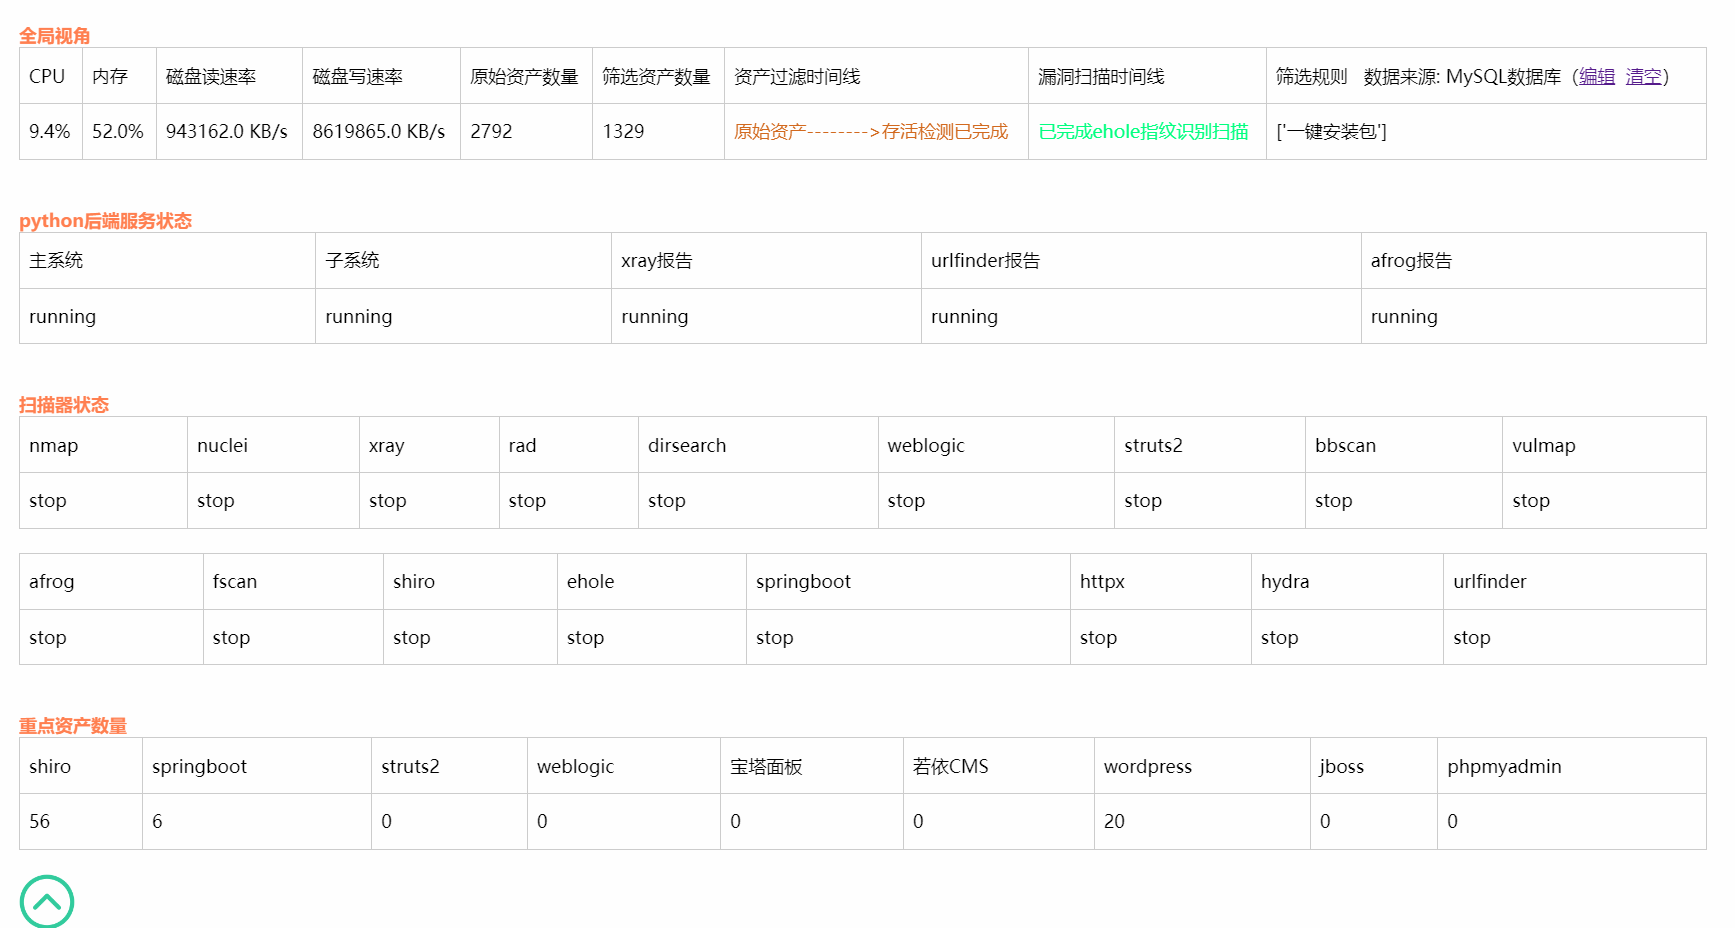
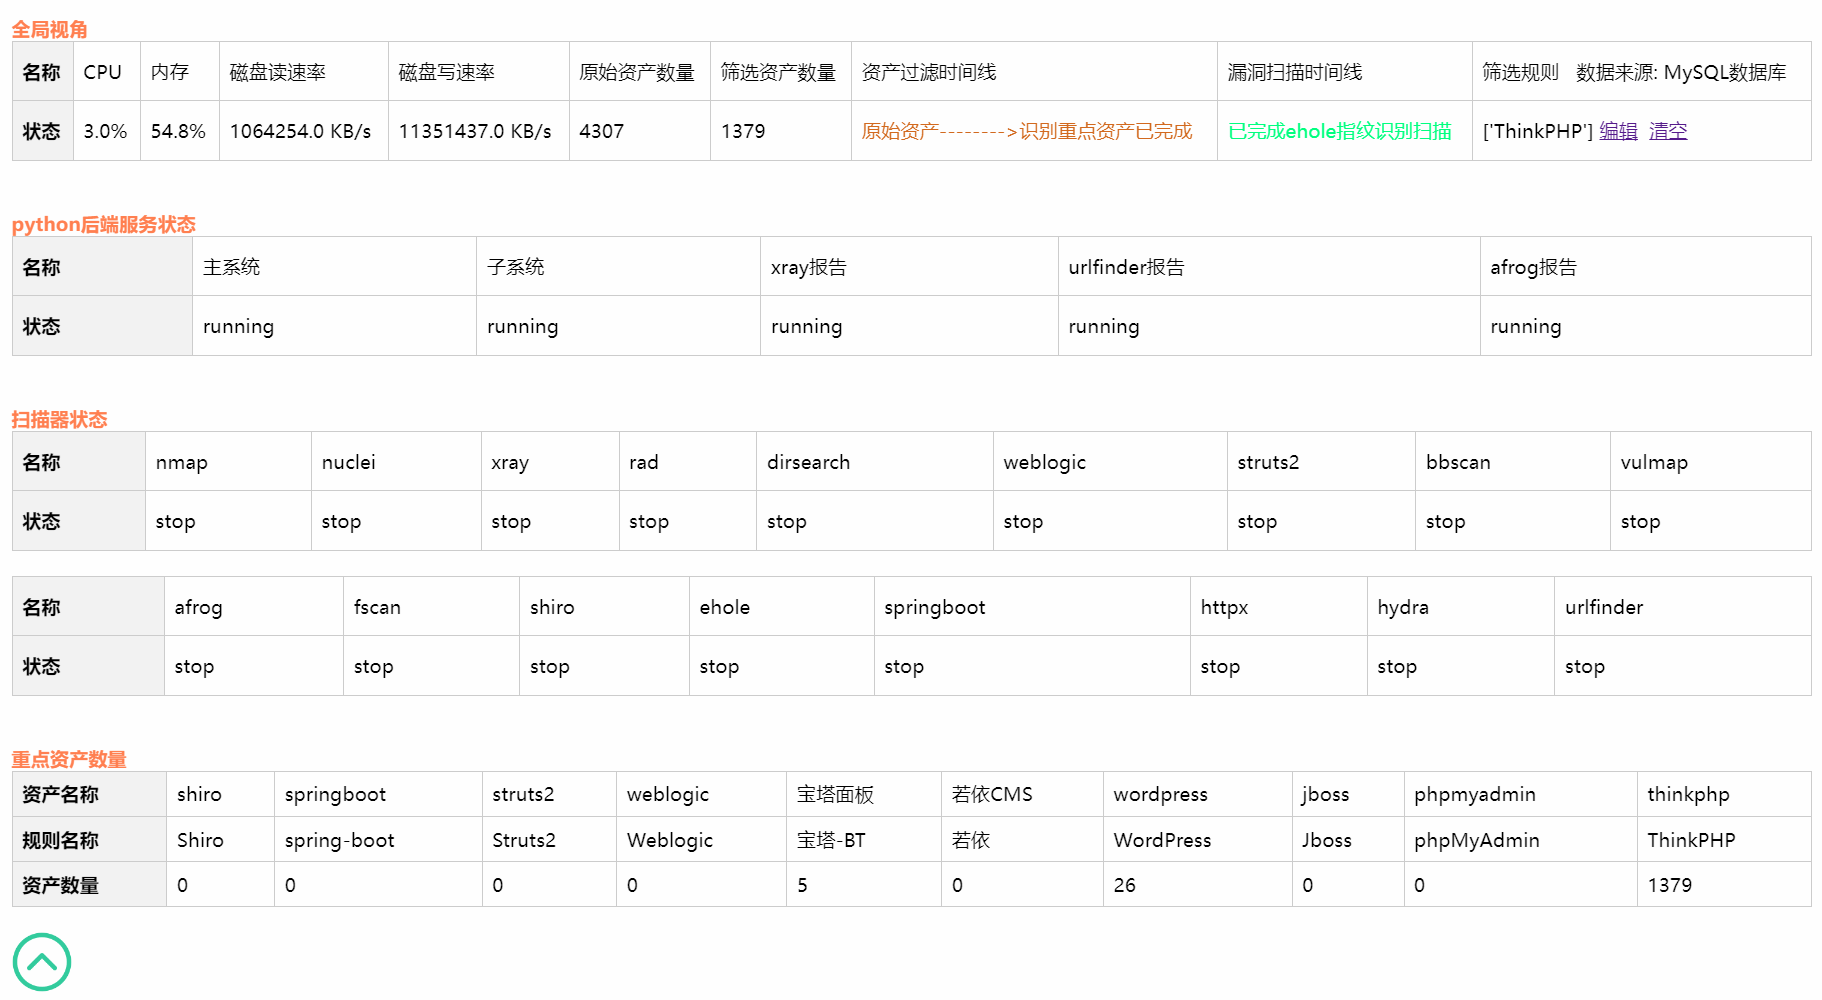
新增重点资产thinkphp资产数量查看、资产查看每5秒刷新一次

diff --git a/templates/index.html b/templates/index.html
@@ -66,6 +66,7 @@
 			<strong style="color:coral">全局视角</strong>
 			<table border="1" style="width: 1500px; height: 100px;">
 				<tr>
+					<th>名称</th>
 					<td>CPU</td>
 					<td>内存</td>
 					<td>磁盘读速率</td>
@@ -77,11 +78,11 @@
 					<td>
 						筛选规则&nbsp;&nbsp;
 
-						<span id="spp31"></span>（<a href="###" onclick="shuaixuanrule()">编辑</a>&nbsp;
-						<a href="###" onclick="delete_rule_all_func()">清空</a>）
+						<span id="spp31"></span>
 					</td>
 				</tr>
 				<tr>
+					<th>状态</th>
 					<td><span id="spp23"></span></td>
 					<td><span id="spp24"></span></td>
 					<td><span id="spp35"></span></td>
@@ -98,6 +99,9 @@
 							<input type="button" value="删除" onclick="delete_rule_func()">
 							<input type="button" value="返回" onclick="fanhuishuaixuanrule()">
 						</p>
+
+						<a href="###" onclick="shuaixuanrule()">编辑</a>&nbsp;
+						<a href="###" onclick="delete_rule_all_func()">清空</a>
 					</td>
 				</tr>
 			</table>
@@ -107,6 +111,7 @@
 			<table border="1" style="width: 1500px; height: 100px;">
 
 				<tr>
+					<th>名称</th>
 					<td>主系统</td>
 					<td>子系统</td>
 					<td>xray报告</td>
@@ -114,6 +119,7 @@
 					<td>afrog报告</td>
 				</tr>
 				<tr>
+					<th>状态</th>
 					<td><span id="spp37"></span></td>
 					<td><span id="spp38"></span></td>
 					<td><span id="spp39"></span></td>
@@ -126,6 +132,7 @@
 			<strong style="color:coral">扫描器状态</strong>
 			<table border="1" style="width: 1500px; height: 100px;">
 				<tr>
+					<th>名称</th>
 					<td>nmap</td>
 					<td>nuclei</td>
 					<td>xray</td>
@@ -138,6 +145,7 @@
 				</tr>
 
 				<tr>
+					<th>状态</th>
 					<td><span id="spp1"></span></td>
 					<td><span id="spp2"></span></td>
 					<td><span id="spp3"></span></td>
@@ -153,6 +161,7 @@
 			<br>
 			<table border="1" style="width: 1500px; height: 100px;">
 				<tr>
+					<th>名称</th>
 					<td>afrog</td>
 					<td>fscan</td>
 					<td>shiro</td>
@@ -163,6 +172,7 @@
 					<td>urlfinder</td>
 				</tr>
 				<tr>
+					<th>状态</th>
 					<td><span id="spp10"></span></td>
 					<td><span id="spp11"></span></td>
 					<td><span id="spp12"></span></td>
@@ -178,6 +188,7 @@
 			<strong style="color:coral">重点资产数量</strong>
 			<table border="1" style="width: 1500px; height: 100px;">
 				<tr>
+					<th>资产名称</th>
 					<td>shiro</td>
 					<td>springboot</td>
 					<td>struts2</td>
@@ -187,8 +198,24 @@
 					<td>wordpress</td>
 					<td>jboss</td>
 					<td>phpmyadmin</td>
+					<td>thinkphp</td>
+				</tr>
+				<!-- 规则名称 -->
+				<tr>
+					<th>规则名称</th>
+					<td>Shiro</td>
+					<td>spring-boot</td>
+					<td>Struts2</td>
+					<td>Weblogic</td>
+					<td>宝塔-BT</td>
+					<td>若依</td>
+					<td>WordPress</td>
+					<td>Jboss</td>
+					<td>phpMyAdmin</td>
+					<td>ThinkPHP</td>
 				</tr>
 				<tr>
+					<th>资产数量</th>
 					<td><span id="spp16"></span></td>
 					<td><span id="spp17"></span></td>
 					<td><span id="spp21"></span></td>
@@ -198,6 +225,7 @@
 					<td><span id="spp22"></span></td>
 					<td><span id="spp25"></span></td>
 					<td><span id="spp34"></span></td>
+					<td><span id="spp42"></span></td>
 				</tr>
 			</table><br>
 			<img src="{{ url_for('static', filename='image/zhedie.png') }}" width="50" height="50"
@@ -651,8 +679,7 @@
 ⑤. 识别重点资产：过滤网站指纹识别后的数据，过滤规则在系统管理模块下的筛选规则处添加；
 ⑥. 资产去重：资产去重处理、提取url为IP组成的资产并去重；
 ⑦. 编辑资产：异步获取上传到服务器的资产回显到文本框进行编辑；
-⑧. 回退资产：回退到未经处理前的资产；
-										</textarea>
+⑧. 回退资产：回退到未经处理前的资产；										</textarea>
 									</td>
 								</tr>
 

diff --git a/static/js/common.js b/static/js/common.js
@@ -205,27 +205,41 @@ function historyurlpreviewfunc() {
 
 //文本框内容展示
 function textinfoshowfunc() {
-    $.ajax({
-        url: '/textareashowinterface/',
-        method: 'GET',
-        success: function (info) {
 
-            $('#opbyid3').empty();
-            for (var i = 0; i < info.textvalue.length; i++) {
-                $('#opbyid3').append('<option>' + info.textvalue[i] + '</option><br>');
+    // 定义一个函数来处理AJAX请求
+    function fetchData() {
+        $.ajax({
+            url: '/textareashowinterface/',
+            method: 'GET',
+            success: function (info) {
+    
+                $('#opbyid3').empty();
+                for (var i = 0; i < info.textvalue.length; i++) {
+                    $('#opbyid3').append('<option>' + info.textvalue[i] + '</option><br>');
+                }
+                document.getElementById("span1").innerHTML = info.url_num;
+            },
+            error: function () {
+                alert('出现内部错误')
+    
+            },
+            complete: function () {
+    
             }
-            document.getElementById("span1").innerHTML = info.url_num;
-        },
-        error: function () {
-            alert('出现内部错误')
+        })
+    }
 
-        },
-        complete: function () {
+    // 调用fetchData函数初始化显示
+    fetchData();
 
-        }
-    })
-
+    // 设置定时器，每5000毫秒（5秒）执行一次fetchData函数
+    var intervalId = setInterval(fetchData, 5000);
 }
+
+// 确保在页面卸载或组件销毁时清除定时器，以防止内存泄漏
+window.addEventListener("beforeunload", function() {
+    clearInterval(intervalId);
+});
 
 
 //xray报告预览
@@ -1072,6 +1086,7 @@ function openModal() {
             document.getElementById("spp39").innerHTML = info.xray_report_status;
             document.getElementById("spp40").innerHTML = info.urlfinder_report_status;
             document.getElementById("spp41").innerHTML = info.afrog_report_status;
+            document.getElementById("spp42").innerHTML = info.ThinkPHP_num;
             });
     }
 

diff --git a/scan_main_web.py b/scan_main_web.py
@@ -2,7 +2,7 @@
 Description:[主系统]
 Author:[huan666]
 Date:[2023/11/15]
-update:[2024/7/12]
+update:[2024/8/4]
 '''
 from flask import Flask, render_template,request
 from flask import session
@@ -35,6 +35,7 @@ from config import struts2_rule
 from config import WordPress_rule
 from config import jboss_rule
 from config import phpMyAdmin_rule
+from config import ThinkPHP_rule
 from config import finger_list
 from config  import rule_options
 from config import dict
@@ -427,6 +428,7 @@ def systemmanagement():
         WordPress_num = basic.key_point_assets_num(WordPress_rule)
         jboss_num = basic.key_point_assets_num(jboss_rule)
         phpmyadmin_num = basic.key_point_assets_num(phpMyAdmin_rule)
+        ThinkPHP_num = basic.key_point_assets_num(ThinkPHP_rule)
 
         # cpu占用率
         cpu_percent = psutil.cpu_percent(interval=1)
@@ -512,7 +514,8 @@ def systemmanagement():
             "dirsub_sys_status":dirsub_sys_status,
             "xray_report_status":xray_report_status,
             "urlfinder_report_status":urlfinder_report_status,
-            "afrog_report_status":afrog_report_status
+            "afrog_report_status":afrog_report_status,
+            "ThinkPHP_num":ThinkPHP_num
 
         }
         return jsonify(message_json)

diff --git a/config.py b/config.py
@@ -72,3 +72,4 @@ struts2_rule = ["Struts2"]
 WordPress_rule = ["WordPress"]
 jboss_rule = ["Jboss"]
 phpMyAdmin_rule = ["phpMyAdmin"]
+ThinkPHP_rule = ["ThinkPHP"]
